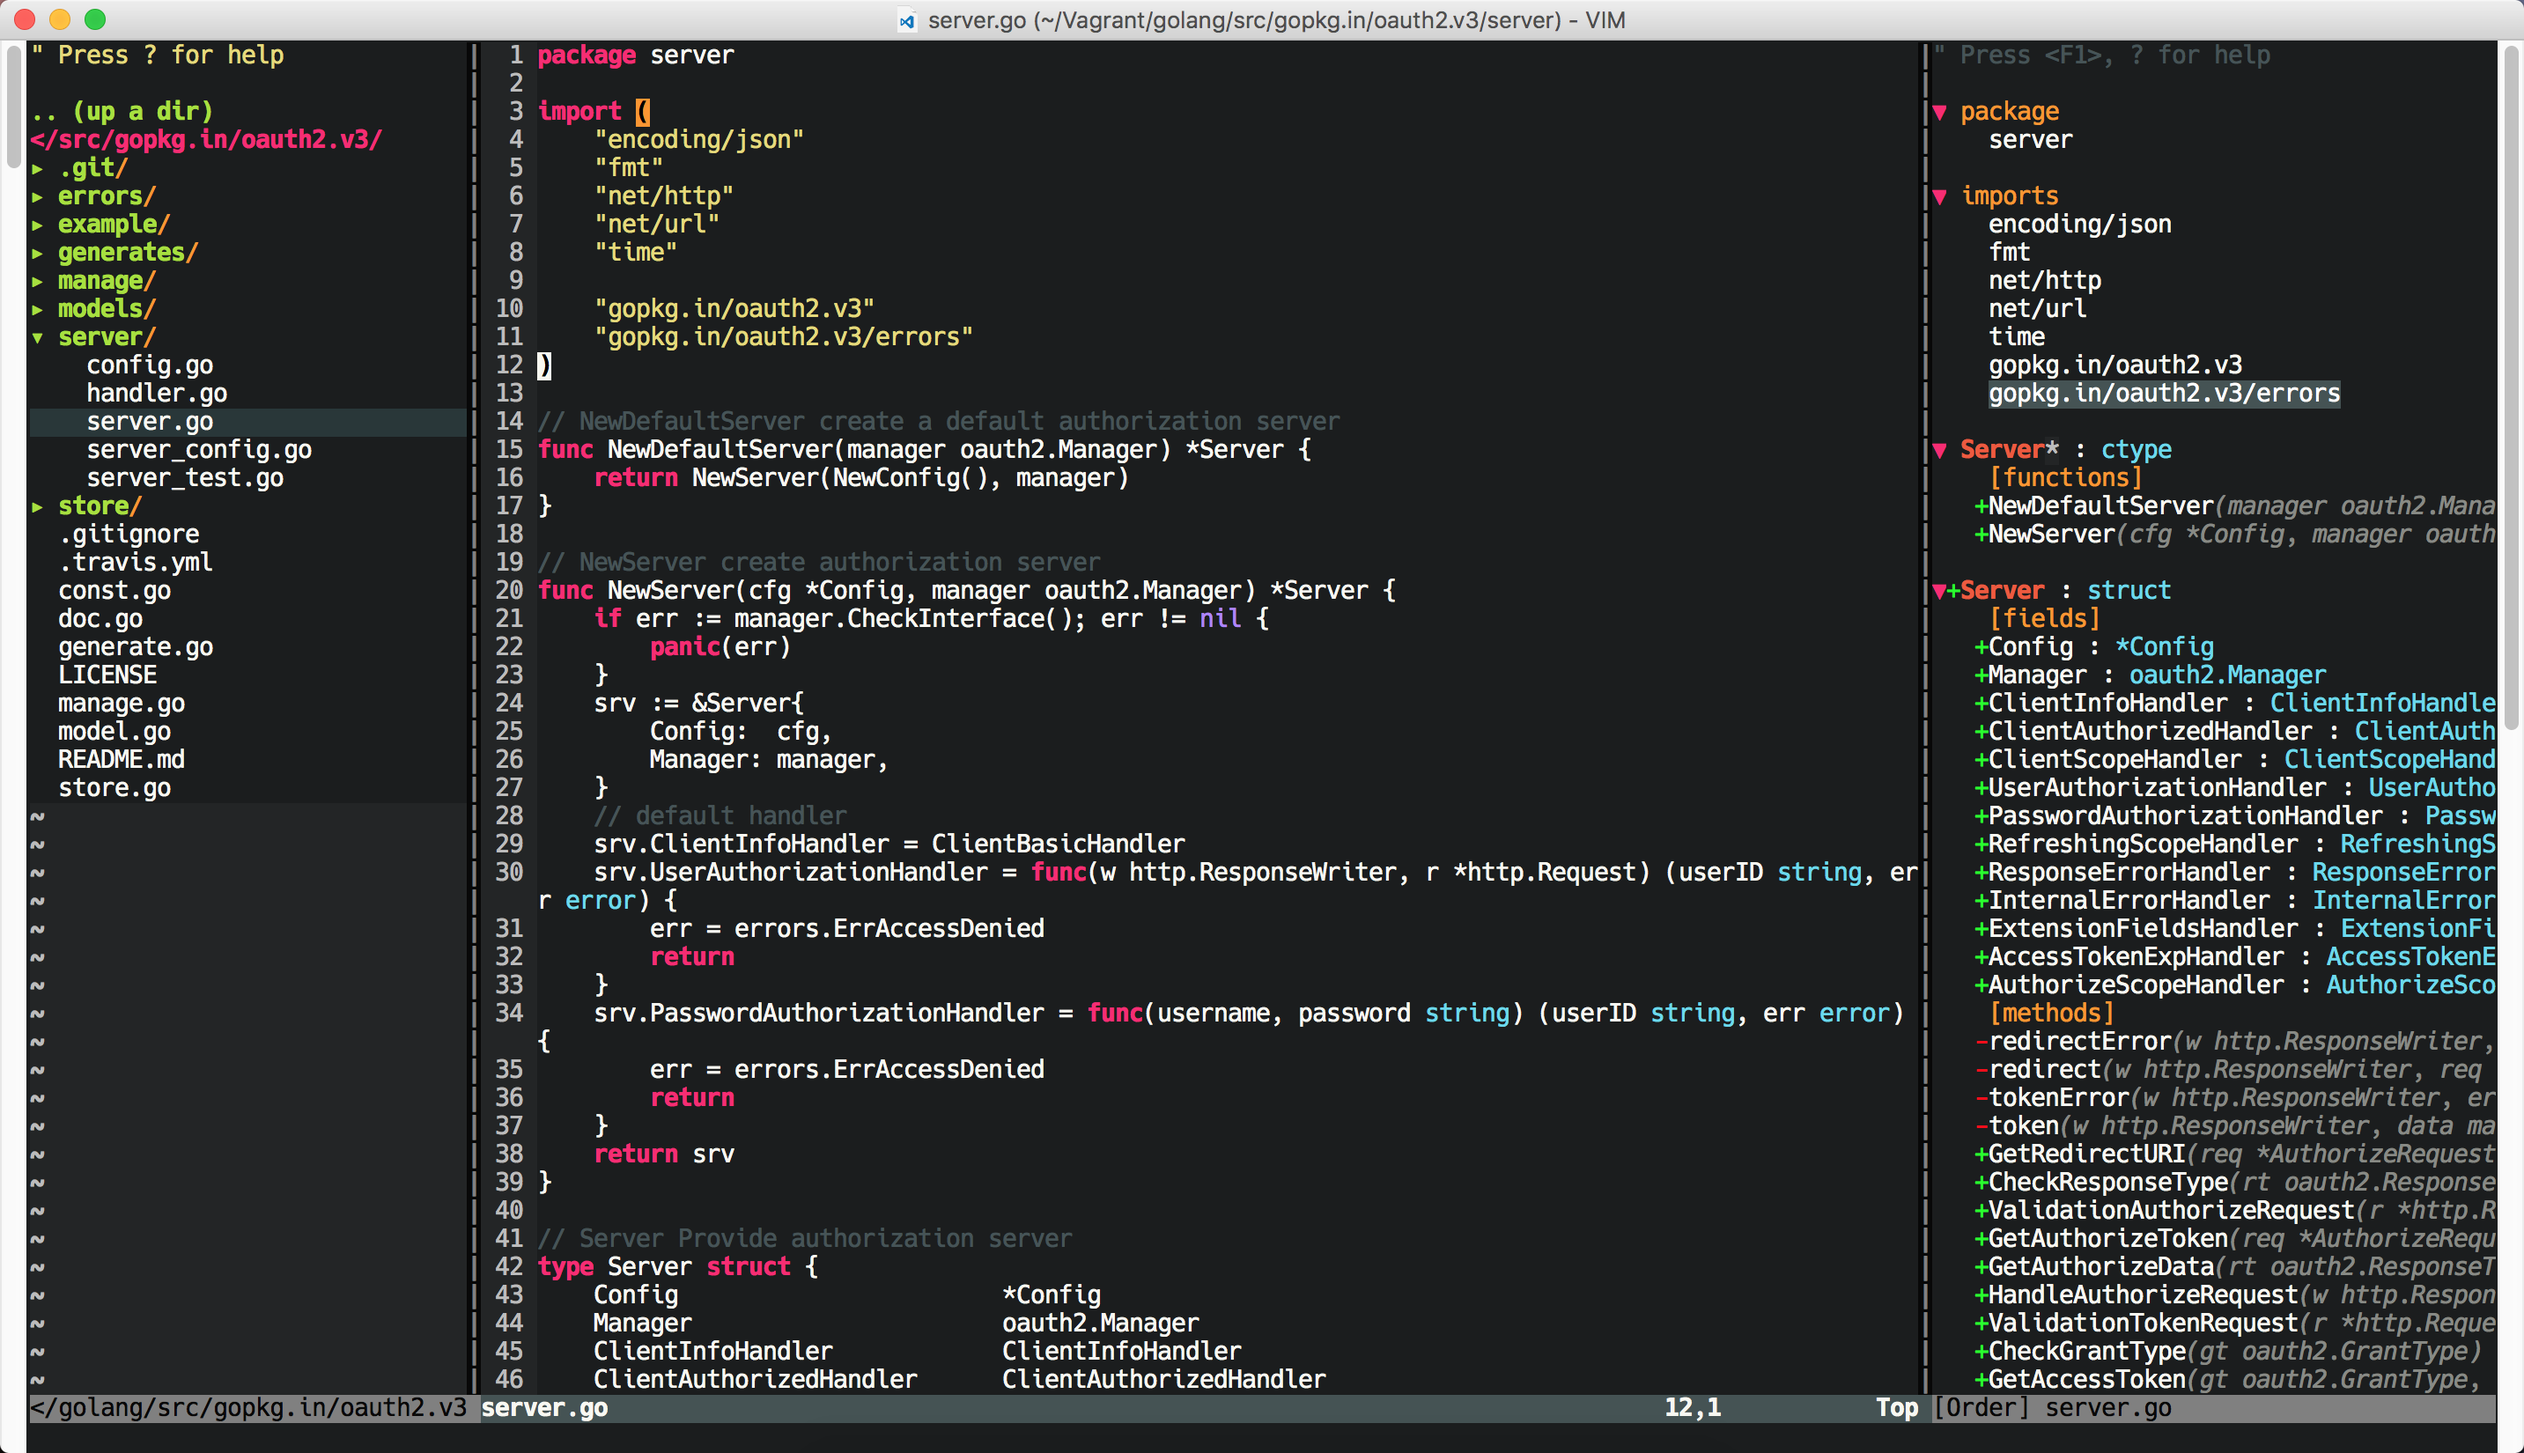
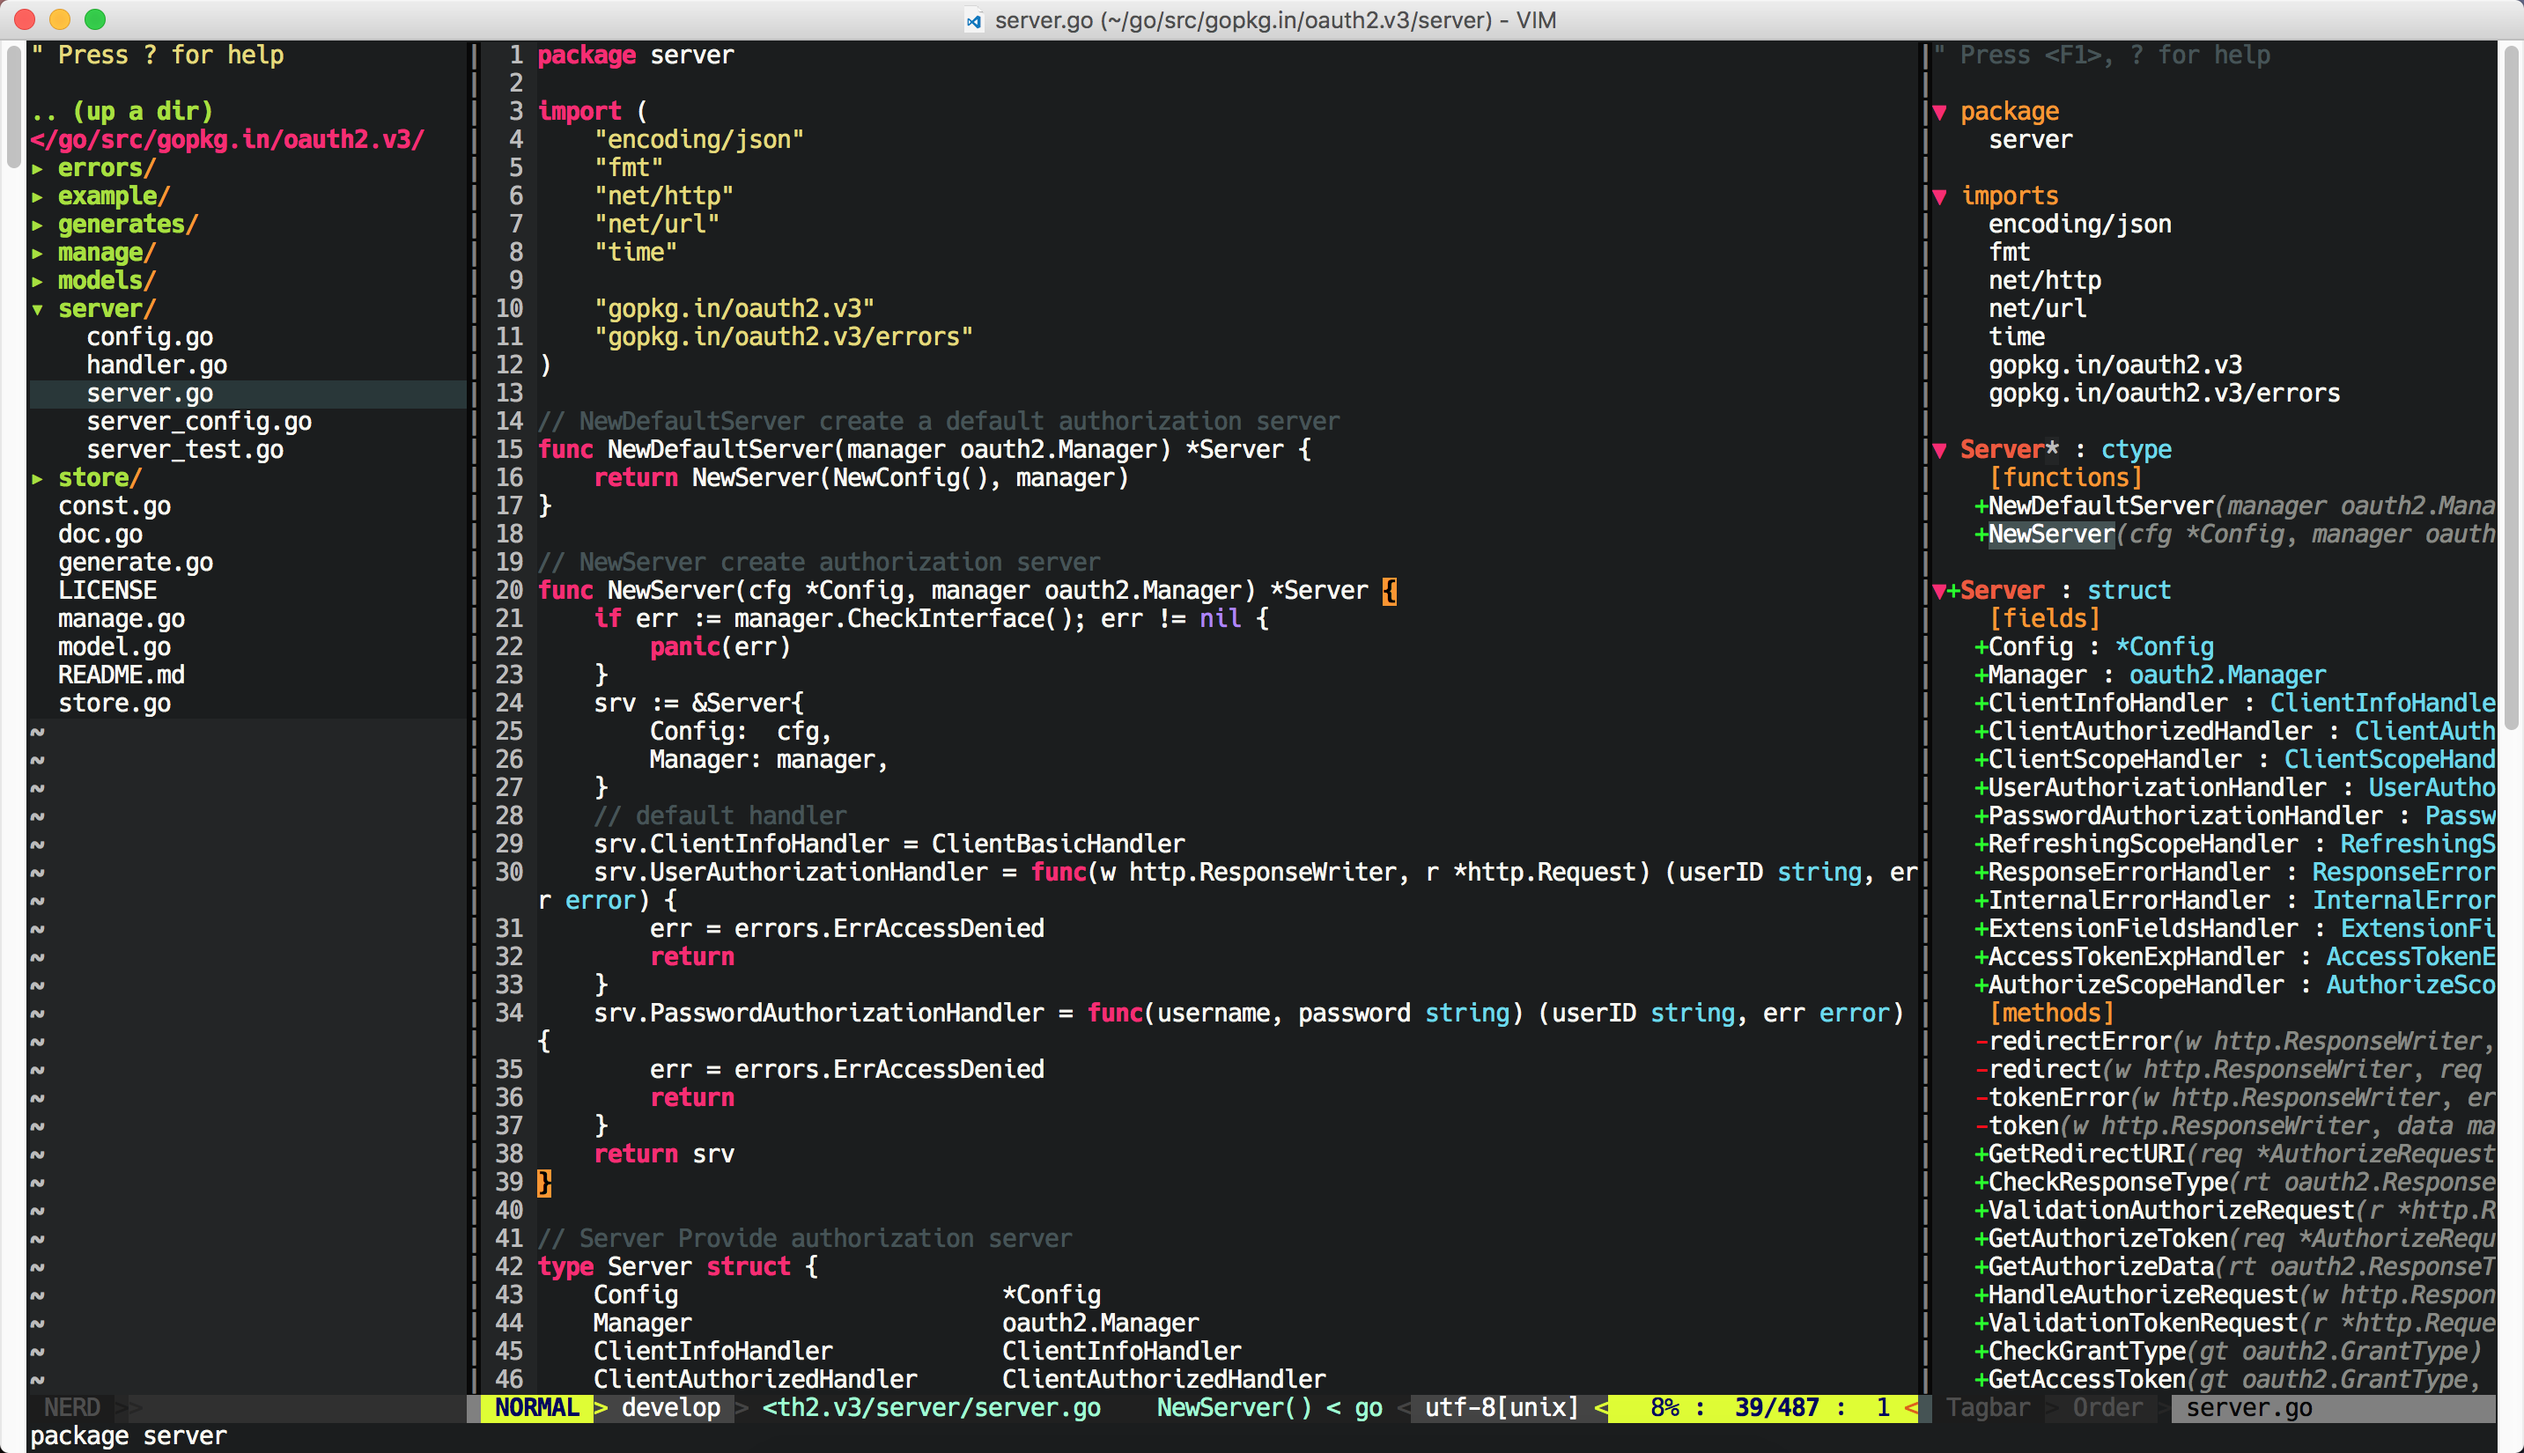
add vim-airline

diff --git a/README.md b/README.md
@@ -1,4 +1,4 @@
-# mac下使用vim配置golang开发环境
+# vim配置golang开发环境
 
 ![screenshot](https://raw.githubusercontent.com/LyricTian/vim/master/screenshots/screenshot.png)
 
